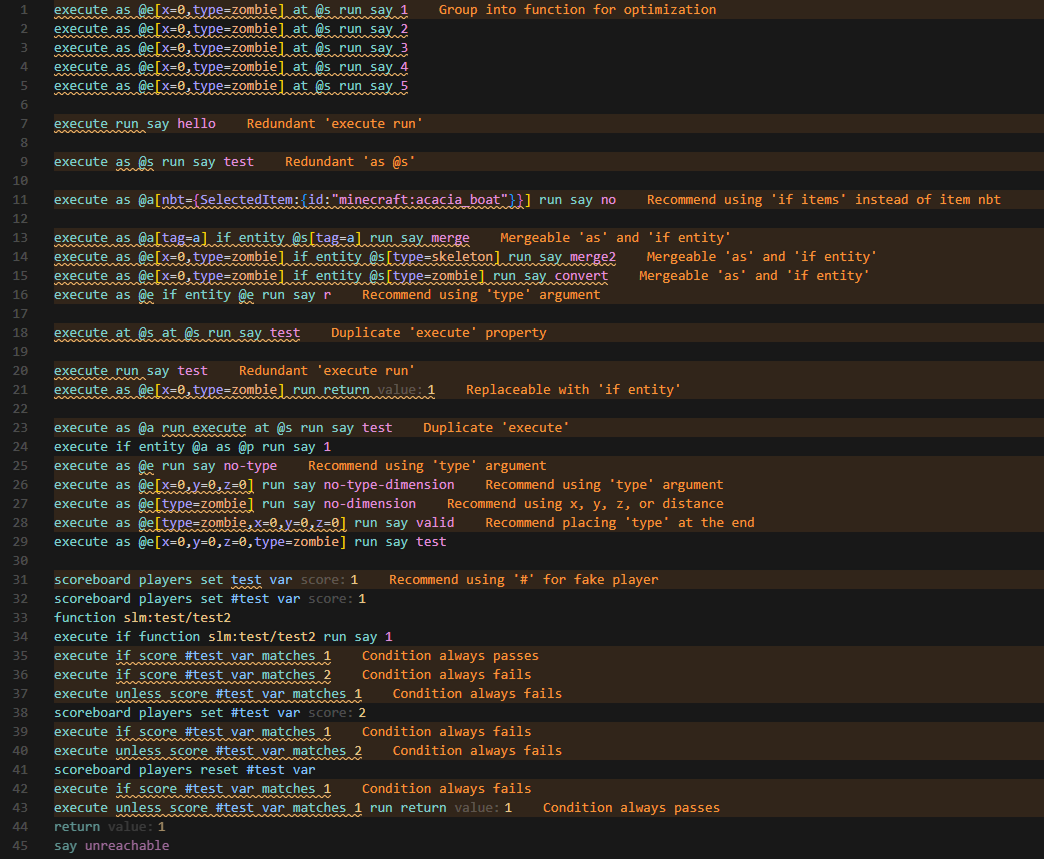
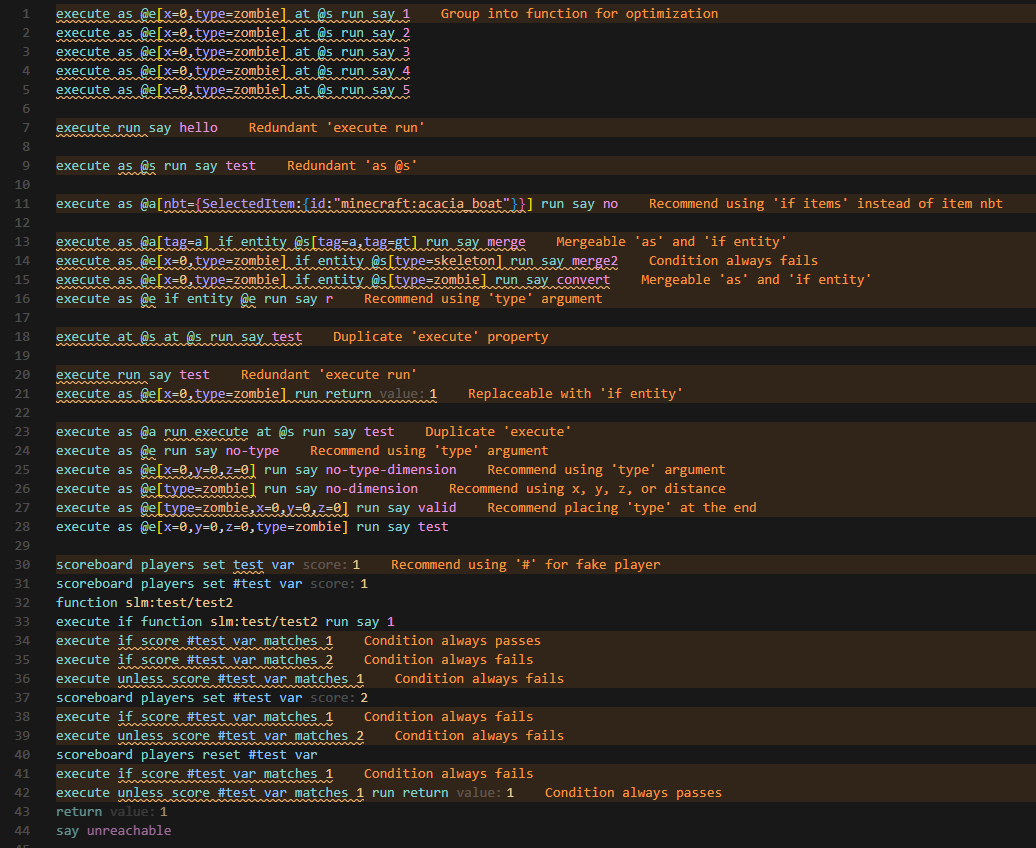
fix: 'if entity' quick fix bug

diff --git a/src/codeActions/executeAsIfEntityFix.ts b/src/codeActions/executeAsIfEntityFix.ts
@@ -38,6 +38,25 @@ function parseArgs(argsStr: string): { key: string; raw: string }[] {
     return args;
 }
 
+function getMergedSelector(
+    asBase: string,
+    asArgsParsed: { key: string; raw: string }[],
+    sArgsParsed: { key: string; raw: string }[]
+): string {
+    const combined = [...asArgsParsed];
+
+    for (const sArg of sArgsParsed) {
+        const isDuplicate = combined.some((a) => a.raw === sArg.raw);
+        if (!isDuplicate) {
+            combined.push(sArg);
+        }
+    }
+
+    const allRaw = combined.map((a) => a.raw);
+    const mergedArgs = allRaw.length > 0 ? `[${allRaw.join(",")}]` : "";
+    return `${asBase}${mergedArgs}`;
+}
+
 export function createExecuteAsIfEntitySMergeFix(
     document: vscode.TextDocument,
     diagnostic: vscode.Diagnostic
@@ -51,19 +70,20 @@ export function createExecuteAsIfEntitySMergeFix(
     const ifEntityMatch = line.match(/\b(if|unless)\s+entity\s+@s(\[[^\]]*\])?/);
 
     if (asMatch && ifEntityMatch) {
-        const asBase = asMatch[1];
-        const asArgsStr = asMatch[2] ? asMatch[2].slice(1, -1) : "";
+        const asBase = asMatch[2];
+        const asArgsStr = asMatch[3] ? asMatch[3].slice(1, -1) : "";
         const sArgsStr = ifEntityMatch[2] ? ifEntityMatch[2].slice(1, -1) : "";
 
         const asArgsParsed = parseArgs(asArgsStr);
         const sArgsParsed = parseArgs(sArgsStr);
 
-        const allArgs = [...asArgsParsed, ...sArgsParsed].map((a) => a.raw);
-        const mergedArgs = allArgs.length > 0 ? `[${allArgs.join(",")}]` : "";
-        const mergedSelector = `${asBase}${mergedArgs}`;
+        const mergedSelector = getMergedSelector(asBase, asArgsParsed, sArgsParsed);
 
         let optimized = line.replace(/\b(if|unless)\s+entity\s+@s(\[[^\]]*\])?\s*/, "");
-        optimized = optimized.replace(/(?<!(positioned|rotated)\s)\bas\s+@[aepnrs](\[[^\]]*\])?/, `as ${mergedSelector}`);
+        optimized = optimized.replace(
+            /(?<!(positioned|rotated)\s)\bas\s+@[aepnrs](\[[^\]]*\])?/,
+            `as ${mergedSelector}`
+        );
         optimized = optimized.replace(/\s+/g, " ").trim();
 
         action.edit = new vscode.WorkspaceEdit();
@@ -89,28 +109,20 @@ export function createExecuteAsIfEntitySConvertFix(
     const ifEntityMatch = line.match(/\b(if|unless)\s+entity\s+@s(\[[^\]]*\])?/);
 
     if (asMatch && ifEntityMatch) {
-        const asBase = asMatch[1];
-        const asArgsStr = asMatch[2] ? asMatch[2].slice(1, -1) : "";
+        const asBase = asMatch[2];
+        const asArgsStr = asMatch[3] ? asMatch[3].slice(1, -1) : "";
         const sArgsStr = ifEntityMatch[2] ? ifEntityMatch[2].slice(1, -1) : "";
 
         const asArgsParsed = parseArgs(asArgsStr);
         const sArgsParsed = parseArgs(sArgsStr);
 
-        const asKeys = asArgsParsed.map((a) => a.key);
-        const mergedArgs: string[] = [];
-
-        for (const sArg of sArgsParsed) {
-            if (!asKeys.includes(sArg.key)) {
-                mergedArgs.push(sArg.raw);
-            }
-        }
-
-        const allArgs = [...asArgsParsed.map((a) => a.raw), ...mergedArgs];
-        const mergedArgsStr = allArgs.length > 0 ? `[${allArgs.join(",")}]` : "";
-        const mergedSelector = `${asBase}${mergedArgsStr}`;
+        const mergedSelector = getMergedSelector(asBase, asArgsParsed, sArgsParsed);
 
         let optimized = line.replace(/\b(if|unless)\s+entity\s+@s(\[[^\]]*\])?\s*/, "");
-        optimized = optimized.replace(/(?<!(positioned|rotated)\s)\bas\s+@[aepnrs](\[[^\]]*\])?/, `as ${mergedSelector}`);
+        optimized = optimized.replace(
+            /(?<!(positioned|rotated)\s)\bas\s+@[aepnrs](\[[^\]]*\])?/,
+            `as ${mergedSelector}`
+        );
         optimized = optimized.replace(/\s+/g, " ").trim();
 
         action.edit = new vscode.WorkspaceEdit();

diff --git a/src/rules/executeAsIfEntity.ts b/src/rules/executeAsIfEntity.ts
@@ -3,6 +3,7 @@ import { DIAGNOSTIC_SOURCE } from "../constants";
 import { t } from "../utils/i18n";
 
 const DUPLICABLE_KEYS = ["predicate", "tag", "nbt"];
+const COMPLEX_KEYS = ["scores", "advancements"];
 
 function parseArgs(argsStr: string): { key: string; raw: string }[] {
     if (!argsStr) {
@@ -41,7 +42,7 @@ function parseArgs(argsStr: string): { key: string; raw: string }[] {
     return args;
 }
 
-function canMerge(asArgsStr: string, sArgsStr: string): boolean {
+function analyzeMerge(asArgsStr: string, sArgsStr: string): "SAFE" | "CONFLICT" | "COMPLEX" {
     const asArgs = parseArgs(asArgsStr);
     const sArgs = parseArgs(sArgsStr);
 
@@ -55,6 +56,8 @@ function canMerge(asArgsStr: string, sArgsStr: string): boolean {
         sMap.set(arg.key, arg.raw);
     }
 
+    let isComplex = false;
+
     for (const [key, asRaw] of asMap.entries()) {
         if (DUPLICABLE_KEYS.includes(key)) {
             continue;
@@ -63,11 +66,15 @@ function canMerge(asArgsStr: string, sArgsStr: string): boolean {
         const sRaw = sMap.get(key);
         if (sRaw !== undefined) {
             if (asRaw !== sRaw) {
-                return false;
+                if (COMPLEX_KEYS.includes(key)) {
+                    isComplex = true;
+                } else {
+                    return "CONFLICT";
+                }
             }
         }
     }
-    return true;
+    return isComplex ? "COMPLEX" : "SAFE";
 }
 
 export function checkExecuteAsIfEntity(lineIndex: number, line: string): vscode.Diagnostic | null {
@@ -92,14 +99,22 @@ export function checkExecuteAsIfEntity(lineIndex: number, line: string): vscode.
     const range = new vscode.Range(lineIndex, startIndex, lineIndex, line.length);
 
     if (entityBase === "@s") {
-        const asArgsStr = asMatch[2] ? asMatch[2].slice(1, -1) : "";
+        const asArgsStr = asMatch[3] ? asMatch[3].slice(1, -1) : "";
         const sArgsStr = ifEntityMatch[3] ? ifEntityMatch[3].slice(1, -1) : "";
 
-        if (canMerge(asArgsStr, sArgsStr)) {
+        const status = analyzeMerge(asArgsStr, sArgsStr);
+
+        if (status === "SAFE") {
             const message = t("executeAsIfEntitySMerge");
             const diagnostic = new vscode.Diagnostic(range, message, vscode.DiagnosticSeverity.Warning);
             diagnostic.source = DIAGNOSTIC_SOURCE;
             diagnostic.code = "execute-as-if-entity-s-merge";
+            return diagnostic;
+        } else if (status === "CONFLICT") {
+            const message = t("unreachableCondition");
+            const diagnostic = new vscode.Diagnostic(range, message, vscode.DiagnosticSeverity.Warning);
+            diagnostic.source = DIAGNOSTIC_SOURCE;
+            diagnostic.code = "unreachable-condition";
             return diagnostic;
         } else {
             const message = t("executeAsIfEntitySConvert");
